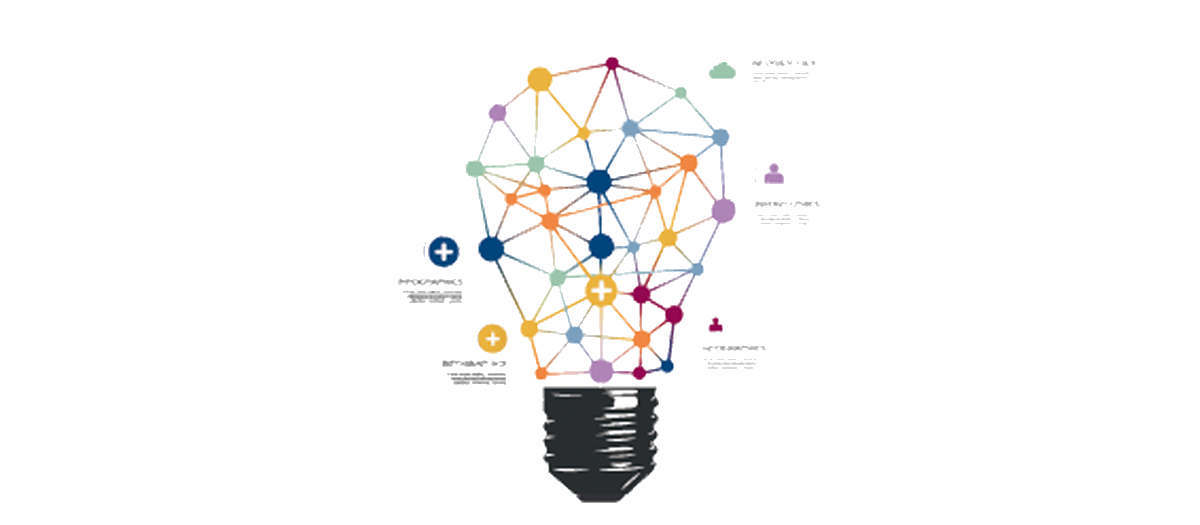
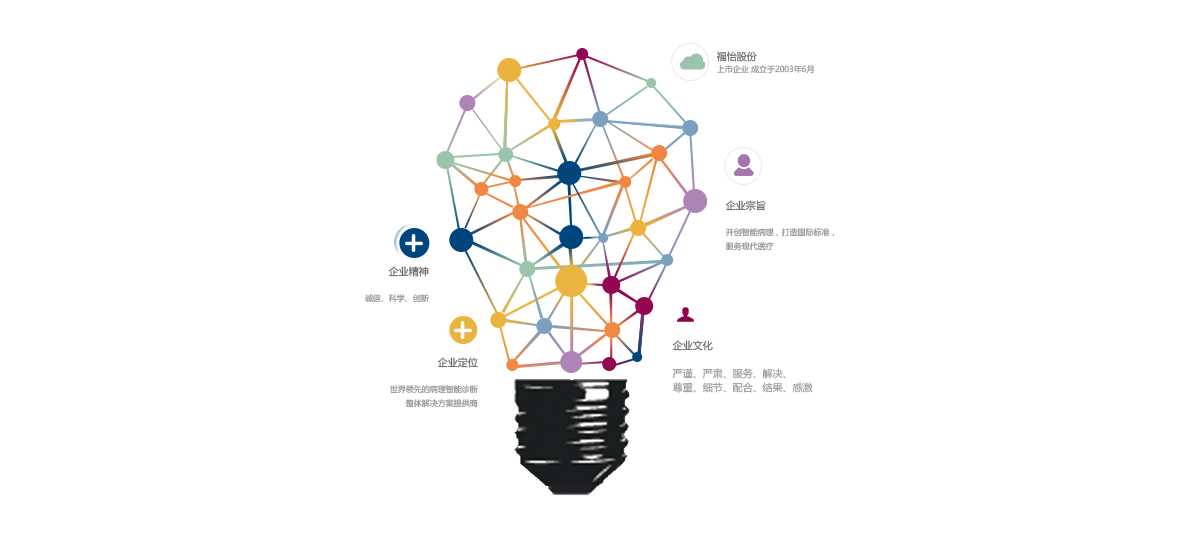
服务1静态

Changed region(s): [[0.3083, 0.0914, 0.7092, 0.9752]]

diff --git a/index.html b/index.html
@@ -121,8 +121,50 @@
         </div>
         <!--服务1-->
         <div class="serviceOne">
-
+            <div class="serviceOneAll serviceOne_1">
+                <div class="serviceOne_son serviceOne_1L fl">
+                    <p>标准化
+                        <img src="image/icon/icon1.png" alt="标准化">
+                    </p>
+                    <p>在恒定染色条件下，完成病例样本的标准化前端染色</p>
+                </div>
+                <div class="serviceOne_son serviceOne_1R fr">
+                    <p>智能化
+                        <img src="image/icon/icon2.png" alt="智能化">
+                    </p>
+                    <p>全自动无人值守，智能筛查病理样本</p>
+                </div>
+            </div>
+            <div class="serviceOneAll serviceOne_2">
+                <div class="serviceOne_son serviceOne_2L fl">
+                    <p>一体化
+                        <img src="image/icon/icon3.png" alt="一体化">
+                    </p>
+                    <p>集样本标准前端处理，智能在线筛查，远程诊断为一体的智能病理诊断系统</p>
+                </div>
+                <div class="serviceOne_son serviceOne_2R fr">
+                    <p>远程化
+                        <img src="image/icon/icon4.png" alt="远程化">
+                    </p>
+                    <p>大数据和云平台的智能病理远程诊断系统</p>
+                </div>
+            </div>
+            <div class="serviceOneAll serviceOne_3">
+                <div class="serviceOne_son serviceOne_3L fl">
+                    <p>绿色化
+                        <img src="image/icon/icon5.png" alt="绿色化">
+                    </p>
+                    <p>绿色净水功能，有效处理废气废液，低碳排放无污染</p>
+                </div>
+                <div class="serviceOne_son serviceOne_3R fr">
+                    <p>测试内容
+                        <img src="image/icon/icon6.png" alt="测试内容">
+                    </p>
+                    <p>测试内容</p>
+                </div>
+            </div>
         </div>
+        
     </div>
 </div>
 <!--服务项目 end-->

diff --git a/css/main.css b/css/main.css
@@ -52,10 +52,60 @@
 /*服务1*/
 .serviceOne{
     width: 100%;
-    height: 525px;
-    border: 1px solid #000;
+    height: 100%;
     background: url("../image/main_dengpao.png");
     background-size: 100%;
+}
+.serviceOneAll{
+    width: 100%;
+    height: 146px;
+}
+.serviceOne_son{
+    padding-top: 21px;
+    width: 313px;
+    height: 100%;
+    text-align: center;
+}
+.serviceOne_son p:first-child{
+    font-size: 26px;
+    color: #333333;
+    margin-bottom: 30px;
+}
+.serviceOne_son p:last-child{
+    font-size: 12px;
+    color: #918F8F;
+}
+.serviceOne_son img:last-child{
+    position: absolute;
+    right: 40px;
+    top: 21px;
+}
+
+.serviceOne_1{
+    margin-bottom: 66px;
+}
+.serviceOne_1L{
+    position: relative;
+}
+.serviceOne_1R{
+    position: relative;
+}
+
+.serviceOne_2{
+    margin-bottom: 66px;
+}
+.serviceOne_2L{
+    position: relative;
+}
+.serviceOne_2R{
+    position: relative;
+}
+
+.serviceOne_3L{
+    position: relative;
+}
+.serviceOne_3R{
+    position: relative;
 }
 /*服务项目 end*/
 

diff --git a/js/main.js b/js/main.js
@@ -17,11 +17,4 @@ $(function () {
 });
 
 // 服务项目
-$(function () {
-    var ourServiceWidth = $(window).width();
-    if(ourServiceWidth<1200){
-        $(".ourService .w").removeClass("w");
-    }else{
-        $(".ourService .w").addClass("w");
-    }
-});
+
